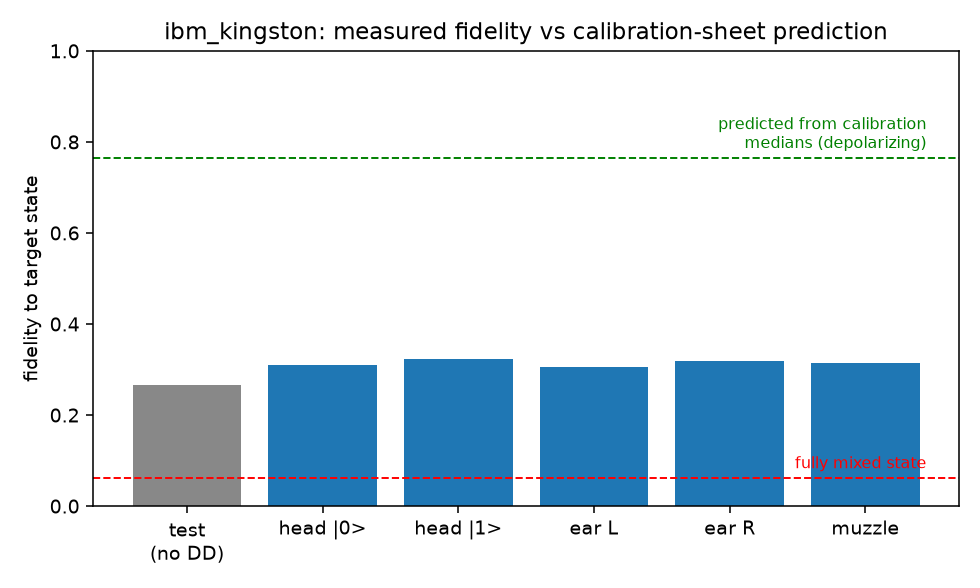
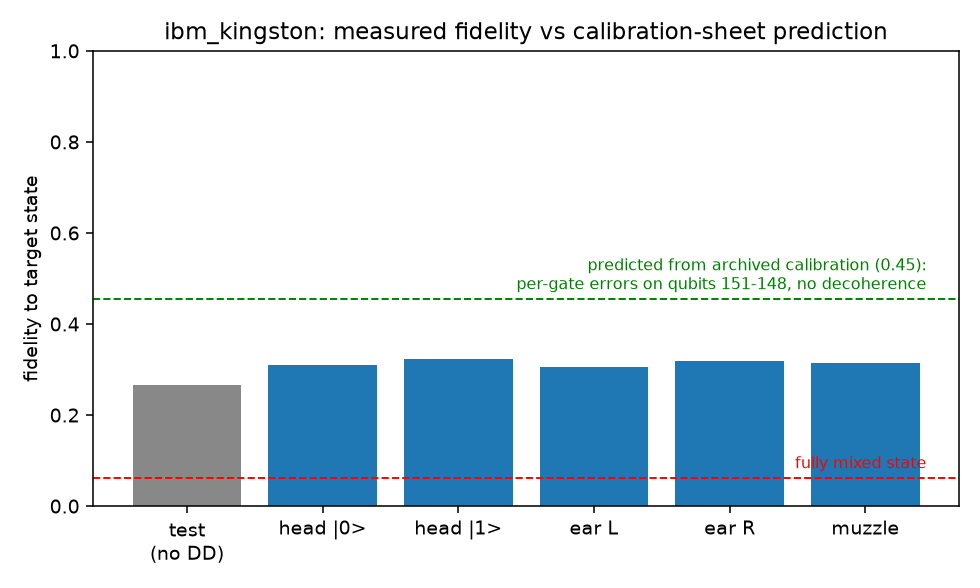
close provenance gaps: rebuild script, derived fields, calibration-based prediction

Changed region(s): [[0.5204, 0.4286, 0.949, 0.5204], [0.7347, 0.1837, 0.949, 0.2755]]

diff --git a/run/refit.py b/run/refit.py
@@ -12,6 +12,16 @@ PAULI = {"I": np.eye(2), "X": np.array([[0, 1], [1, 0]]),
          "Y": np.array([[0, -1j], [1j, 0]]), "Z": np.array([[1, 0], [0, -1]])}
 BASIS = "ZXY"
 
+COMPONENT_INDEX = {
+    "single-component test (muzzle)": 4,
+    "component 1: head |0>": 0,
+    "component 2: head |1>": 1,
+    "component 3: left ear": 2,
+    "component 4: right ear": 3,
+    "component 5: muzzle": 4,
+}
+
+
 def linear_inversion(records, n=4):
     est, cnt = {}, {}
     for rec in records:
@@ -35,28 +45,29 @@ def linear_inversion(records, n=4):
         rho += (v / cnt[key]) * P / 2 ** n
     return rho
 
-jobs = json.loads((here / "jobs.json").read_text())
-nq, lim, comps = render.scene("HUSKY4")
-targets = {
-    "single-component test (muzzle)": comps[4],
-    "component 1: head |0>": comps[0],
-    "component 2: head |1>": comps[1],
-    "component 3: left ear": comps[2],
-    "component 4: right ear": comps[3],
-    "component 5: muzzle": comps[4],
-}
 
-(here / "states").mkdir(exist_ok=True)
-print(f"{'job':22s} {'label':32s} {'fidelity':>8s} {'purity':>7s}")
-for job_id, meta in jobs.items():
+def load_jobs():
+    return json.loads((here / "jobs.json").read_text())
+
+
+def refit_job(job_id):
     records = json.loads((here / "counts" / f"{job_id}.json").read_text())
-    rho = linear_inversion(records)
-    fock, U, w = targets[meta["label"]]
-    psi = U[:, fock]
-    fid = float(np.real(psi.conj() @ rho @ psi))
-    pur = float(np.real(np.trace(rho @ rho)))
-    print(f"{job_id:22s} {meta['label']:32s} {fid:8.3f} {pur:7.3f}")
-    with open(here / "states" / f"{job_id}.json", "w") as f:
-        json.dump({"label": meta["label"], "fidelity_vs_ideal": fid,
-                   "purity": pur, "rho_real": np.real(rho).tolist(),
-                   "rho_imag": np.imag(rho).tolist()}, f)
+    return linear_inversion(records)
+
+
+if __name__ == "__main__":
+    jobs = load_jobs()
+    nq, lim, comps = render.scene("HUSKY4")
+    (here / "states").mkdir(exist_ok=True)
+    print(f"{'job':22s} {'label':32s} {'fidelity':>8s} {'purity':>7s}")
+    for job_id, meta in jobs.items():
+        rho = refit_job(job_id)
+        fock, U, w = comps[COMPONENT_INDEX[meta["label"]]]
+        psi = U[:, fock]
+        fid = float(np.real(psi.conj() @ rho @ psi))
+        pur = float(np.real(np.trace(rho @ rho)))
+        print(f"{job_id:22s} {meta['label']:32s} {fid:8.3f} {pur:7.3f}")
+        with open(here / "states" / f"{job_id}.json", "w") as f:
+            json.dump({"label": meta["label"], "fidelity_vs_ideal": fid,
+                       "purity": pur, "rho_real": np.real(rho).tolist(),
+                       "rho_imag": np.imag(rho).tolist()}, f)

diff --git a/run/rebuild_husky.py b/run/rebuild_husky.py
@@ -1,0 +1,44 @@
+import hashlib
+import pathlib
+import sys
+
+import numpy as np
+import matplotlib
+matplotlib.use("Agg")
+import matplotlib.pyplot as plt
+
+here = pathlib.Path(__file__).parent
+sys.path.insert(0, str(here.parent / "ibm"))
+import render
+import refit
+
+RENDER_JOBS = {
+    "d98rg3if47jc73a89ct0": 0,
+    "d98rgcgtcv6s73dmgbhg": 1,
+    "d98rglgtcv6s73dmgbsg": 2,
+    "d98rgugtcv6s73dmgc60": 3,
+    "d98rh74qp3as739tajjg": 4,
+}
+
+nq, lim, comps = render.scene("HUSKY4")
+H = np.zeros((render.RES, render.RES))
+for job_id, idx in RENDER_JOBS.items():
+    rho = refit.refit_job(job_id)
+    fock, U, w = comps[idx]
+    H += w * render.husimi(rho, lim)
+    print(f"{job_id}: component {idx + 1} weight {w}")
+
+fig, ax = plt.subplots(1, 1, figsize=(4, 4))
+ax.imshow(H, origin="lower", cmap="inferno")
+ax.set_title("HUSKY4")
+ax.axis("off")
+fig.tight_layout()
+out = here / "husky_rebuilt.png"
+fig.savefig(out, dpi=150, facecolor="black")
+
+sha = hashlib.sha256(out.read_bytes()).hexdigest()
+print(f"wrote {out.name}")
+print(f"sha256 {sha}")
+orig = here.parent / "output" / "husky_kingston.png"
+if orig.exists():
+    print(f"published image sha256 {hashlib.sha256(orig.read_bytes()).hexdigest()}")

diff --git a/run/plots.py b/run/plots.py
@@ -27,14 +27,46 @@ targets = {
     "component 5: muzzle": comps[4],
 }
 
+def calibration_prediction():
+    cal = json.loads((here / "calibration_ibm_kingston.json").read_text())
+    line = [151, 150, 149, 148]
+    edges = [{151, 150}, {150, 149}, {149, 148}]
+    cz_errs, sx_errs = [], []
+    for g in cal["gates"]:
+        err = next((p["value"] for p in g["parameters"]
+                    if p["name"] == "gate_error"), None)
+        if err is None:
+            continue
+        if g["gate"] == "cz" and set(g["qubits"]) in edges:
+            cz_errs.append(err)
+        elif g["gate"] == "sx" and g["qubits"][0] in line:
+            sx_errs.append(err)
+    ro_errs = []
+    for q in line:
+        for p in cal["qubits"][q]:
+            if p["name"] == "readout_error":
+                ro_errs.append(p["value"])
+    e_cz, e_sx = np.mean(cz_errs), np.mean(sx_errs)
+    preds = []
+    for meta in jobs.values():
+        ops = meta["sample_circuit"]["ops"]
+        n1 = ops.get("sx", 0) + ops.get("x", 0)
+        preds.append((1 - e_cz) ** ops["cz"] * (1 - e_sx) ** n1
+                     * np.prod([1 - r for r in ro_errs]))
+    return float(np.mean(preds))
+
 labels = ["test\n(no DD)", "head |0>", "head |1>", "ear L", "ear R", "muzzle"]
 fids = [states[j]["fidelity_vs_ideal"] for j in jobs]
 
 fig, ax = plt.subplots(figsize=(7, 4.2))
 colors = ["#888888"] + ["#1f77b4"] * 5
 ax.bar(labels, fids, color=colors)
-ax.axhline(0.765, ls="--", c="green", lw=1)
-ax.text(5.45, 0.775, "predicted from calibration\nmedians (depolarizing)",
+pred = calibration_prediction()
+print(f"calibration-based prediction: {pred:.3f}")
+ax.axhline(pred, ls="--", c="green", lw=1)
+ax.text(5.45, pred + 0.01,
+        f"predicted from archived calibration ({pred:.2f}):\n"
+        "per-gate errors on qubits 151-148, no decoherence",
         ha="right", va="bottom", fontsize=8, color="green")
 ax.axhline(1 / 16, ls="--", c="red", lw=1)
 ax.text(5.45, 0.075, "fully mixed state", ha="right", va="bottom",

diff --git a/run/fetch.py b/run/fetch.py
@@ -34,8 +34,6 @@ for job_id, label in JOBS.items():
         "created": str(job.creation_date),
         "timestamps": m.get("timestamps"),
         "usage": m.get("usage"),
-        "physical_qubits": [151, 150, 149, 148],
-        "shots_per_circuit": 512,
     }
 
     res = job.result()
@@ -48,8 +46,16 @@ for job_id, label in JOBS.items():
         })
     with open(here / "counts" / f"{job_id}.json", "w") as f:
         json.dump(recs, f)
+    manifest[job_id]["shots_per_circuit"] = sum(recs[0]["counts"].values())
 
-    qc = job.inputs["pubs"][0][0]
+    inputs = job.inputs
+    manifest[job_id]["runtime_options"] = json.loads(
+        json.dumps(inputs.get("options", {}), default=str))
+    qc = inputs["pubs"][0][0]
+    measured = sorted(
+        (qc.find_bit(inst.clbits[0]).index, qc.find_bit(inst.qubits[0]).index)
+        for inst in qc.data if inst.operation.name == "measure")
+    manifest[job_id]["physical_qubits"] = [q for _, q in measured]
     ops = qc.count_ops()
     manifest[job_id]["sample_circuit"] = {
         "depth": qc.depth(),

diff --git a/run/README.md b/run/README.md
@@ -2,28 +2,31 @@
 
 Receipts for the ibm_kingston run. IBM doesn't have public pages for
 jobs (only the submitting account can query them), so the raw data is
-committed here instead and the analysis can be rerun from it directly.
+committed here and the analysis can be rerun from it directly.
 
 | File | What it is |
 |---|---|
-| `jobs.json` | the six job IDs, creation times, IBM's execution timestamps, billed usage (14 s each), and gate stats for the submitted circuits |
+| `jobs.json` | the six job IDs, creation times, IBM's execution timestamps, billed usage (14 s each), archived runtime options, gate stats, and the measured physical qubits |
 | `counts/` | raw bitstring counts for all 81 tomography circuits of each job, plus the measurement basis per circuit (`m_idx`, 0=Z 1=X 2=Y) |
-| `circuits/` | one full transpiled circuit per job, OpenQASM 3, on the 156-qubit layout as actually submitted |
+| `circuits/` | one representative submitted circuit per job (pub 0 of 81), OpenQASM 3, on the 156-qubit layout. The other 80 differ only in measurement-basis rotations, which `counts/` records |
 | `calibration_ibm_kingston.json` | the backend's calibration snapshot from run time |
 | `requirements-lock.txt` | pip freeze of the environment that submitted everything |
 | `states/` | density matrices reconstructed from the counts, with fidelity and purity per job |
 | `fetch.py` | pulls all of the above from IBM (needs the submitting account) |
 | `refit.py` | redoes the tomography from `counts/` alone, no account needed |
-| `plots.py` | makes the figures below from the reconstructed states |
+| `rebuild_husky.py` | rebuilds the final husky image from `counts/` and prints its sha256 |
+| `plots.py` | makes the figures below, including the calibration-based prediction |
 
-To check the numbers yourself:
+To check everything yourself:
 
 ```
-cd ibm && python3 -m venv .venv && .venv/bin/pip install -r requirements.txt && cd ..
-ibm/.venv/bin/python run/refit.py
+python3 -m venv .venv
+.venv/bin/pip install -r run/requirements-lock.txt
+.venv/bin/python run/refit.py
+.venv/bin/python run/rebuild_husky.py
 ```
 
-which prints, from my machine:
+`refit.py` prints, from my machine:
 
 ```
 job                    label                            fidelity  purity
@@ -35,24 +38,46 @@ d98rgugtcv6s73dmgc60   component 4: right ear              0.318   0.162
 d98rh74qp3as739tajjg   component 5: muzzle                 0.315   0.164
 ```
 
-The refit is plain linear inversion, so it lands ~0.005 away from the
-PSD-projected fitter used during the live run (0.267 here vs the 0.263
-quoted for the test job). The test job also ran without dynamical
-decoupling while the five render jobs had it on, which is worth about
-+0.05 fidelity on comparable circuits.
+`rebuild_husky.py` closes the chain from raw counts to the final image:
+it reconstructs the five component states, applies the scene weights,
+sums the Husimi functions and writes `husky_rebuilt.png`
+(sha256 `ef5bf914...`). It is visually identical to the published
+`output/husky_kingston.png` but not byte-identical, because the live run
+fitted the states with qiskit-experiments' PSD-projected fitter while
+the refit here uses plain linear inversion. The same difference shows in
+the numbers, about 0.005 in fidelity (0.267 here vs 0.263 quoted for
+the test job).
+
+Gate counts, stated precisely because three different numbers float
+around: each component's logical unitary decomposes to 94-95 entangling
+gates in a cz basis before routing. The submitted circuits, after
+routing onto the physical qubits and appending measurement rotations,
+contain 230-245 physical CZ gates at Qiskit depths of 1028-1110. The
+`physical_qubits` field in `jobs.json` lists which qubit each classical
+bit measured in the archived circuit; routing settles each circuit on
+its own final mapping within qubits 148-151.
+
+The archived `runtime_options` show `dynamical_decoupling: {enable:
+true}` on the five render jobs and no DD on the test job. The test job
+measured 0.267 on the same muzzle circuit that scored 0.315 with DD.
+That is one paired comparison, not a controlled benchmark, so treat the
++0.05 as indicative.
 
 ## What the errors look like
 
 <p align="center"><img src="fidelity.png" width="75%"></p>
 
-Kingston's calibration sheet (median gate errors, depolarizing model)
-predicts ~0.77 fidelity for these circuits. The machine delivered ~0.31.
-The gap is decoherence during the ~360-layer circuits, worst-case qubits,
-and correlated errors, none of which show up in per-gate medians.
+The dashed line is computed by `plots.py` from the archived calibration:
+take the cz, sx and readout errors for qubits 148-151, raise (1 - error)
+to the power of each submitted circuit's gate counts, and multiply. That
+static per-gate model predicts 0.46. The machine delivered ~0.31. The
+missing third is dominated by effects a per-gate model doesn't see,
+mainly decoherence while the ~1000-deep circuit executes.
 
 <p align="center"><img src="displacement_decay.png" width="65%"></p>
 
-Same effect seen in phase space: energy relaxation during the circuit
-drags every state back toward the vacuum. The ears, displaced furthest,
-lose the most, which is why they nearly vanish in the hardware image
-while the head barely moves.
+The same loss seen in phase space: every reconstructed state sits closer
+to the vacuum than where it was prepared, and the ears, displaced
+furthest, lose the most. The direction and ordering are consistent with
+amplitude damping during the circuit, though readout bias, preparation
+error and tomography artifacts will contribute too.

diff --git a/README.md b/README.md
@@ -87,10 +87,10 @@ and your API key saved once:
 ```
 
 Stick to the 4-qubit scene on real devices. A generic 4-qubit unitary
-already costs ~95-150 two-qubit gates after transpilation, and the
-5-qubit glyphs are about 5x worse, which is past the point where
-anything comes back. The paper made the same call, their hardware runs
-were 4 qubits per mode too.
+decomposes to ~95 entangling gates, and 230-245 physical CZ gates once
+routed onto hardware; the 5-qubit glyphs are several times worse, which
+is past the point where anything comes back. The paper made the same
+call, their hardware runs were 4 qubits per mode too.
 
 ## Run on ibm_kingston
 
@@ -108,15 +108,17 @@ seconds per job, 70 for the render plus 14 for an earlier test.
 
 The head and muzzle survive, the ears mostly don't. Component fidelities
 came out at 0.31-0.32 (0.27 for a test job that ran without dynamical
-decoupling): each state prep is ~150 two-qubit gates deep, the qubits
-decay while the circuit runs, and that decay also pulls displaced states
-back toward the center of the image. The paper's hardware figures show
-the same kind of damage.
+decoupling). The submitted circuits carry 230-245 CZ gates each, and the
+qubits lose a lot of state over a circuit that deep; the loss also moves
+displaced states back toward the center of the image, which is
+consistent with amplitude damping though other errors contribute. The
+paper's hardware figures show the same kind of damage.
 
 The [`run/`](run/) folder has the receipts: job IDs, raw counts for all
-486 circuits, the transpiled circuits, a calibration snapshot, locked
-package versions, a script that rechecks the fidelity numbers from the
-counts alone, and a couple of plots of how the errors behave.
+486 circuits, representative submitted circuits, archived runtime
+options, a calibration snapshot, locked package versions, plots of how
+the errors behave, and scripts that recheck the fidelity numbers and
+rebuild the husky image from the counts alone.
 
 ## References
 